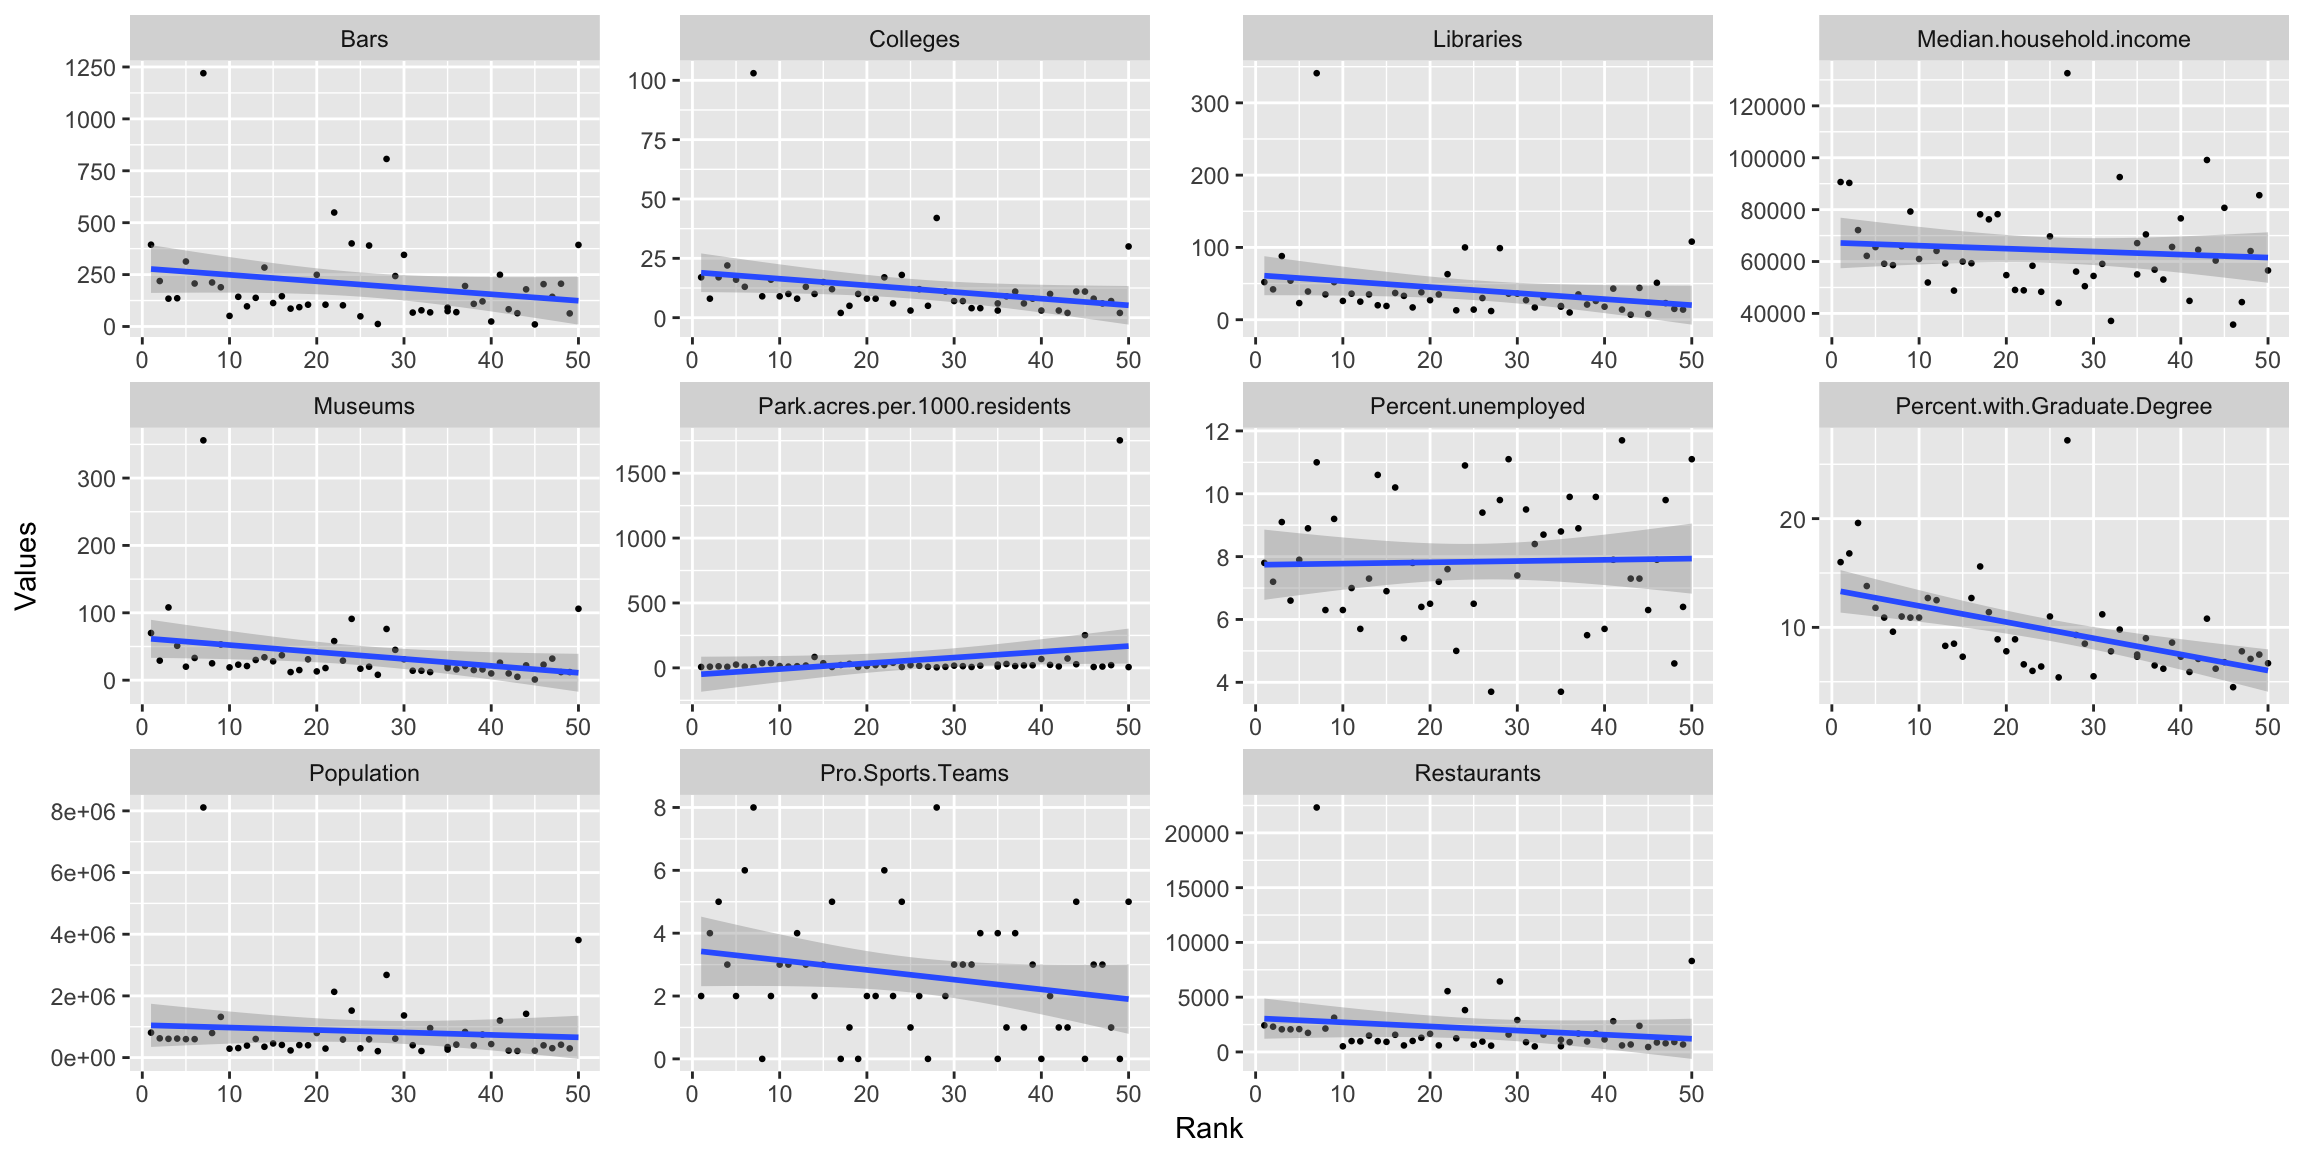
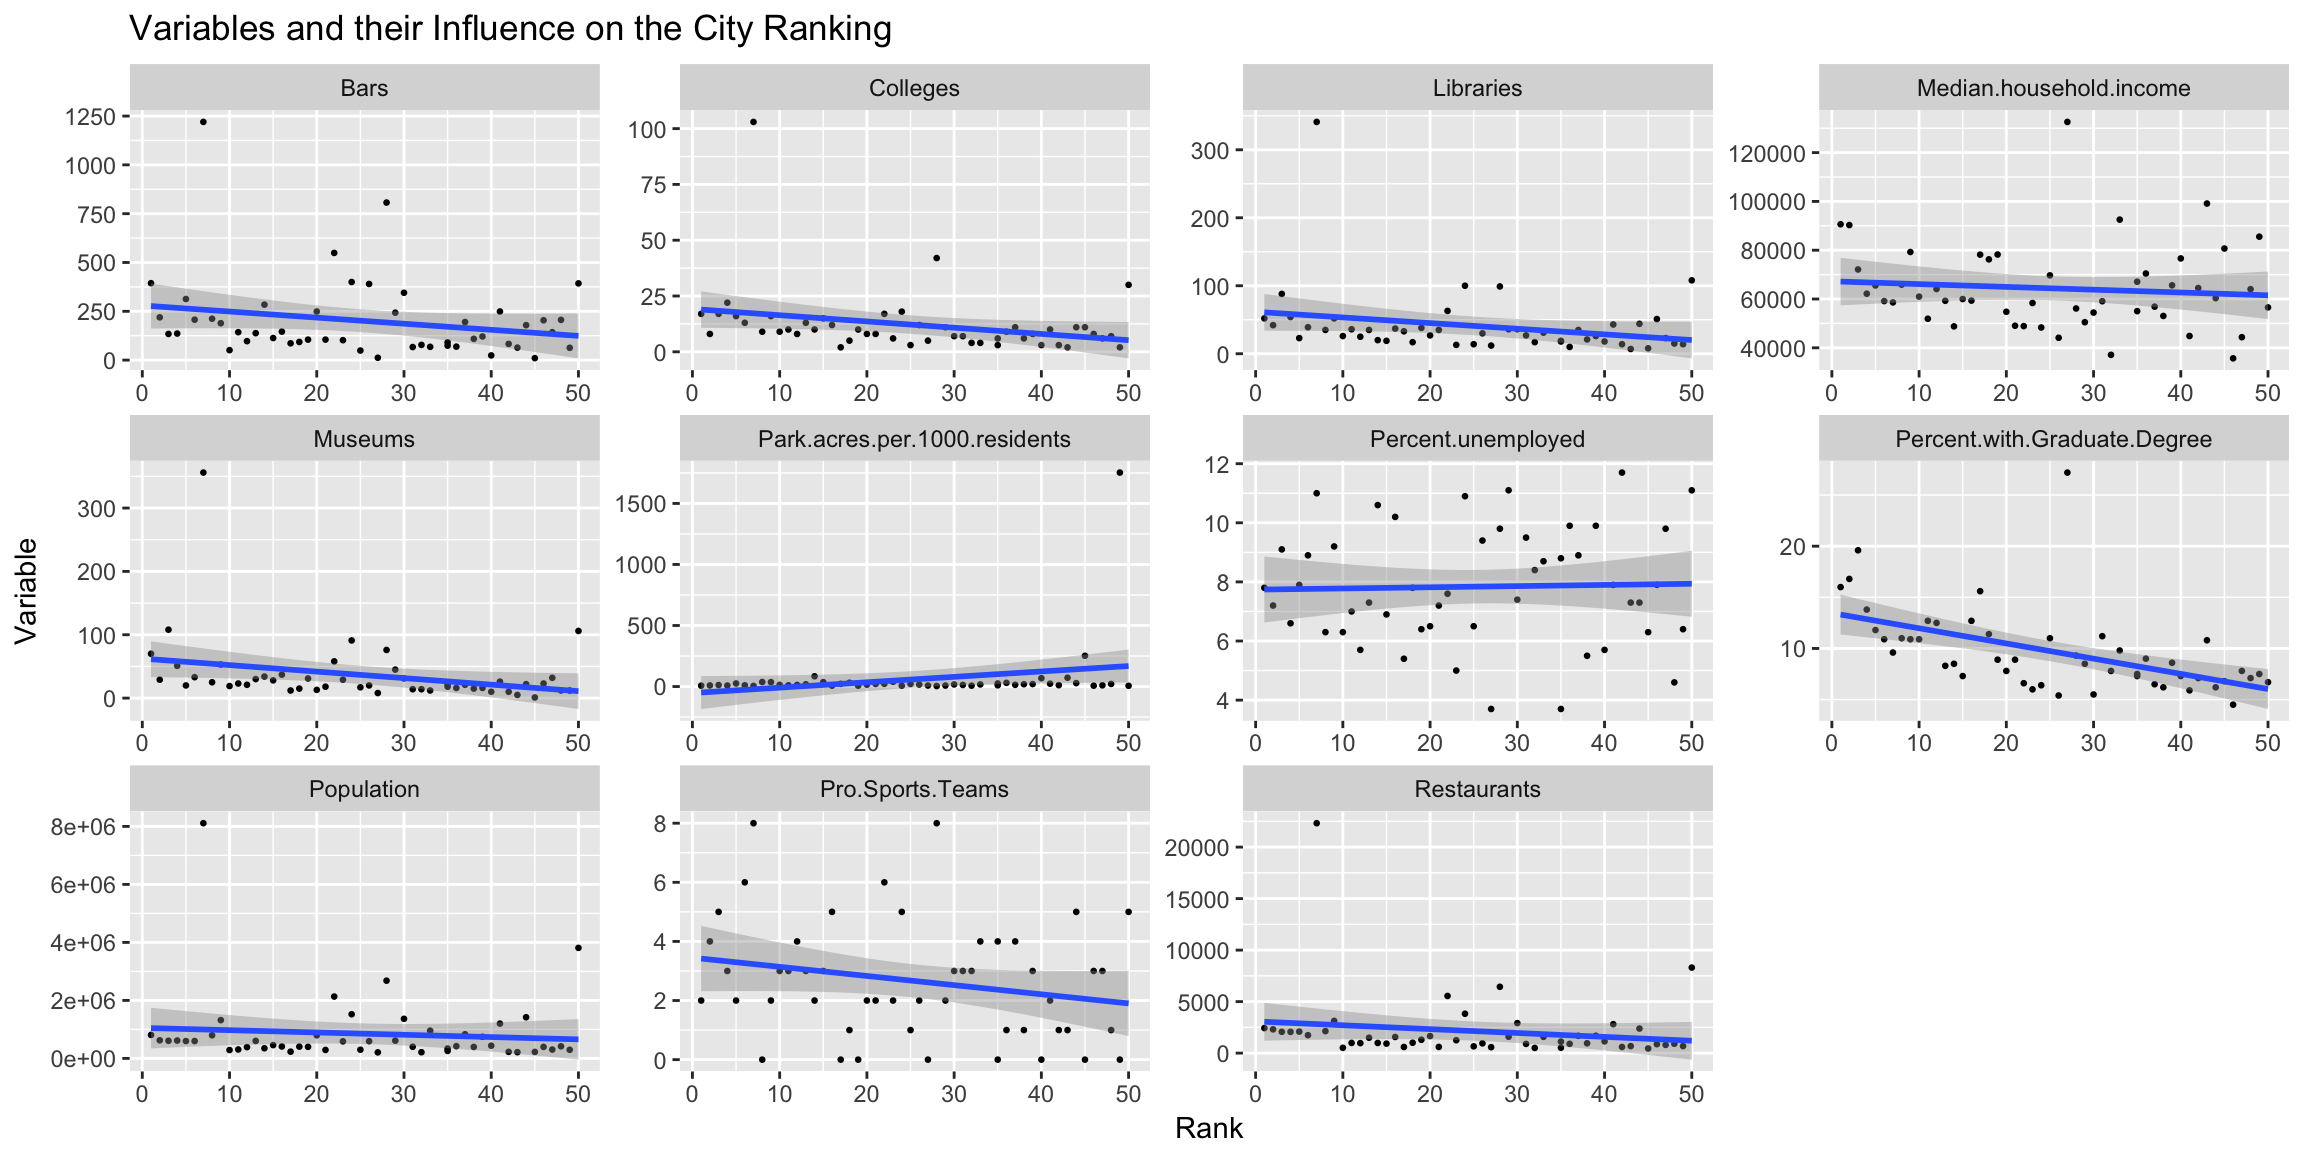
More Changes

diff --git a/bcities.html b/bcities.html
@@ -146,7 +146,7 @@ facetcities=facetcities[facetcities$Variable!=&quot;City&quot;,]
 
 facetcities$Values=as.numeric(facetcities$Values)
 
-ggplot(facetcities,aes(x=Rank,y=Values)) + geom_point(size=.5)+ facet_wrap(~Variable, scales = &quot;free&quot;)+geom_smooth(method=&quot;lm&quot;)</code></pre>
+ggplot(facetcities,aes(x=Rank,y=Values)) + geom_point(size=.5)+ facet_wrap(~Variable, scales = &quot;free&quot;)+geom_smooth(method=&quot;lm&quot;) + labs(list(title = &quot;Variables and their Influence on the City Ranking&quot;, x = &quot;Rank&quot;, y = &quot;Variable&quot;))</code></pre>
 <p><img src="bcities_files/figure-html/fig1-1.png" width="1152" /></p>
 <p>This facet graph gives us a an overview at the relationships between the ranking of the cities and the variables: Population, Bars, Restaurants, Museums, Libraries, Number of Pro Sports Teams, Park Acres to 1000 residents, Colleges, Percentage of people with a Graduate Degree, Median Household Incomes and Percent Unemployed. From this, we wanted to examine some of the relationships further. Then, we ran correlation tests with the variables that we saw the highest relationship with, and the variables we were unsure about.</p>
 <div id="comparing-rank-with-percentage-of-people-with-graduate-degrees" class="section level5">
